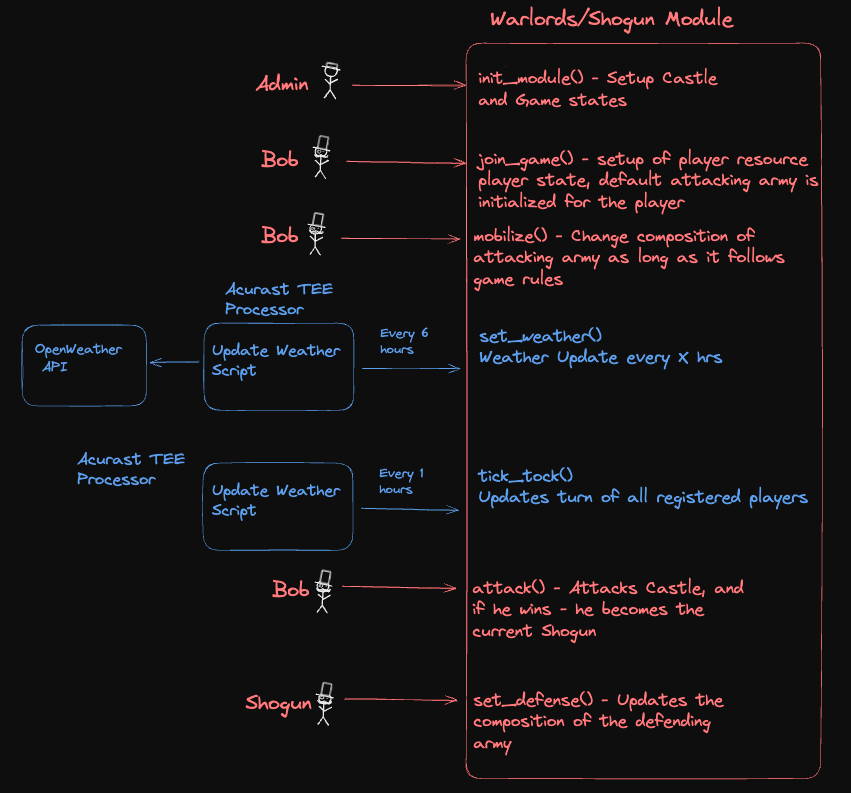
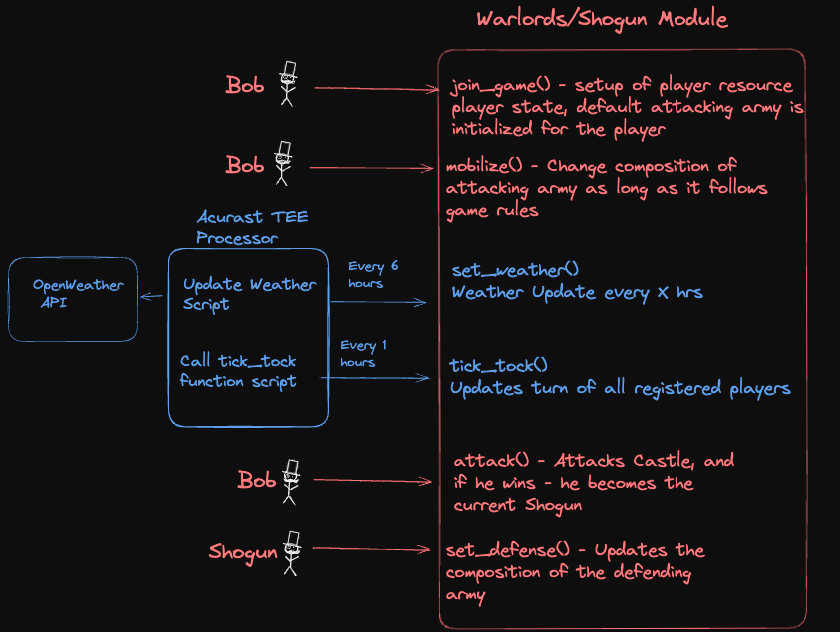
updated readme

diff --git a/README.md b/README.md
@@ -1,44 +1,17 @@
 ![alt text](images/cover.png)
 
-## Introduction  
+## Introduction
 
-Shogun is a fully on-chain game on Aptos L1 written in Move. The core innovation of this project is leveraging [Acurast](https://docs.acurast.com) to run Node.js scripts, making it an oracle for non-financial data, such as weather conditions. In our case, we retrieve weather data from the OpenWeather API with minimal trust assumptions that affects the in-game battle mechanics. Additionally, Acurast processors act as decentralized keepers by running scheduled cron jobs.
+Set in the Edo period of Japan, the goal of *Shogun* is to seize control of Edo Castle. Real-time weather conditions in Tokyo (historically Edo) directly impact gameplay and strategy. For example, rain hinders cavalry charges but strengthens infantry, while clear skies provide a bonus to cavalry, enhancing their effectiveness in battle.
 
-Set in the Edo period of Japan, the goal of the game is to gain control of Edo Castle. Real-time weather conditions in Tokyo(Edo) directly affect gameplay and strategy, e.g. rain stunts cavalry charges but empowers infantry, while clear skies provide an extra bonus to cavalry, enhancing their effectiveness in battle.
+*Shogun* is a fully on-chain game on the Aptos L1, built using Move. The core innovations of this project include:
 
-Here are the main actions a player can take:
+- **Leveraging Acurast**: We utilize [Acurast](https://docs.acurast.com) to run Node.js scripts, acting as an **oracle** for non-financial data, such as weather. Weather data is fetched from the OpenWeather API with minimal trust assumptions and influences the in-game battle mechanics. Tokyo's weather is updated every 6 hours.
 
-* Join the Game
-* Set Castle Defense (only the current Shogun, the lord of the castle edo, can do this)
-* Attack Castle Edo 
-* Mobilize Army (determine the composition of the attacking army)
+- **Decentralized Keepers**: Acurast processors serve as decentralized **keepers**, executing scheduled cron jobs. In our game, player statuses are updated every hour. This mechanism can be extended to support other decentralized, turn-based games on Aptos.
 
-The Scripts in Acurast Trusted Execution Environment (TEE) handles the following tasks:
+- **Aptos Randomness API**: We incorporate the [Aptos randomness API](https://aptos.dev/en/build/smart-contracts/randomness) to add an element of chance to battles. Combined with weather dependency, this randomness creates a more dynamic, realistic, and enjoyable battle strategy experience.
 
-* Update Weather Conditions (every 6 hours)
-* Set Player Turns (for all registered players, every hour)
-
-## Quick Start 
-
-- Download the project
-
-- cd into project's folder
-
-- Create .env file by example and fill required values (NEXT_PUBLIC_MODULE_ADDRESS is not required)
-
-- Run:
-
-```
-
-npm install
-
-npm run move:publish
-
-npm run dev
-
-```
-
-Boilerplate info: https://aptos.dev/en/build/create-aptos-dapp/templates/boilerplate
 
 ## Game Architecture
 
@@ -46,11 +19,31 @@ The following diagram shows all the public entry functions and the oracle/keeper
 
 ![alt text](images/architecture.png)
 
+The Diagram above shows the user actions, and the automated actions of Acurast processors (cron jobs):
+
+Main Actions a Player Can Take (public entry functions called by players) are as follow:
+
+- **Join the Game**: Upon joining the game, a player's default values are initialized in the game state. Players are provided with an army that has a default troop composition.
+  
+- **Mobilize Army**: After joining the game, players can modify the composition of their attacking army.
+
+- **Attack Castle Edo**: Players can challenge Edo Castle. If they succeed, they become the next Shogun.
+
+- **Set Castle Defense**: Only the current Shogun, the lord of Edo Castle, has the authority to change the troop composition of the defending army.
+
+The scripts running in Acurast’s TEE handle the following automated tasks (public entry functions called by cron jobs):
+
+- **Update Weather Conditions**: Fetches and updates the weather data every 6 hours.
+  
+- **Update Player State**: Updates player statuses every hour.
+
 ## Acurast Integration and trust assumptions
 
 Acurast is a decentralized and trustless compute execution layer, leveraging Trust Execution Environments opening up the capability to have Acurast’s Processors (off-chain workers) fetch, sign and submit data on-chain completely trustless and confidential. The processors are highly decentralized and uses processing power of old mobile phones. 
 
-For our proof of concept, deployed nodejs script on a Acurast processor fetches that weather data from [openweathermap api](https://openweathermap.org/current). Assuming that the data from Openweather API is correct, the data is forwarded to the game smart contract (move module) without additional trust overhead. It is signed by a preassigned weatherman, verifying that the incoming data comes from the acurast processor. 
+On Aptos, fetching non-price feed data can be difficult. However, we believe that Aptos smart contracts can receive Web2 API data through Acurast TEE processors with minimal trust assumptions. As a result, we decided to run scripts containing the [aptos-ts-sdk](https://github.com/aptos-labs/aptos-ts-sdk) inside Acurast processors.
+
+For our proof of concept, we deployed nodejs script on a Acurast processor fetches that weather data from [openweathermap api](https://openweathermap.org/current). Assuming that the data from Openweather API is correct, the data is forwarded to the game smart contract (move module) without additional trust overhead. It is signed by a preassigned weatherman, verifying that the incoming data comes from the acurast processor. 
 
 The acurast data sets the weather condition to one of the following options, based on the [weather condition codes of the api](https://openweathermap.org/weather-conditions)
 
@@ -64,41 +57,51 @@ The acurast data sets the weather condition to one of the following options, bas
 ```
 Each weather condition affects the effectiveness of the units, adding a layer of strategy to the game. 
 
-Moreover, we also use a second script to call `tick_tock()` function of the module to update player states every turn. This is a proof of concept use of Acurast processors as keepers. This function is not gated (anyone call this), however there is an internal check that only affects the game state if it is called after 1 hr has passed. In the future, we can offer a small bounty for bots to call this every hour -- turning it into a robust decentralized keeper.
+Moreover, we also use a second script to call `tick_tock()` function of the module to update player states every turn. This is a proof of concept use of Acurast processors as ** decentralized keepers**. This function is not gated (anyone call this), however there is an internal check that only affects the game state if it is called after 1 hr has passed.
 
 Note: You can find out more on Acurast's trust minimized processing [here](https://docs.acurast.com/acurast-protocol/architecture/end-to-end/)
 
+Acurast processor clusters are highly decentralized and permissionless, allowing anyone to join and contribute, making the network more resilient and distributed. The picture below showcases various processor clusters. The one on the left represents our cluster, where our proof-of-concept scripts are currently running. In production, we plan to deploy to a randomly selected processor within the Acurast ecosystem (ones that we do not own), with multiple redundancies to further minimize trust assumptions and enhance reliability.
+
+![alt text](images/acurast_cluster.png)
+
 ## Implementation details - Game rules
 
-When a player joins the game, they start with 10 turns and a default attacking army of 500 archers, 500 cavalry, and 500 infantry. Players can mobilize and change their army composition at any time for a cost of 3 turns, with a maximum total army size of 2,000 units.
+When a player joins the game, they start with 10 turns and a default attacking army consisting of 500 archers, 500 cavalry, and 500 infantry. Players can mobilize and modify their army composition at any time for a cost of 3 turns, with a maximum army size of 2,000 units.
 
-Players can attack Edo Castle (Tokyo) at the cost of 10 turns. The Acurast Keepers (cron jobs) ensure that players receive one turn every hour, with each turn representing one in-game day.
+Attacking Edo Castle (Tokyo) costs 10 turns. Acurast Keepers (cron jobs) ensure that players receive 1 turn every hour, with each turn representing one in-game day.
 
-If a player wins the battle, they become the next Shogun of Tokyo, gaining the ability to set the defense of the castle (an army of up to 1,600 units). A player cannot attack themselves, and each successful attack earns 1 point. These points determine a player's rank on the leaderboard. Once a player wins the castle, they cannot be attacked for 2 turns, giving the player a chance to set custom defense.
+If a player wins the battle, they become the next Shogun of Tokyo, gaining the ability to set the castle's defense with an army of up to 1,600 units. Players cannot attack themselves, and each successful attack earns 1 point, which contributes to their rank on the leaderboard.
 
-The game resets every 365 turns, which equates to one in-game year (approximately 15 real-life days). At the end of each game year, the player with the most points on the leaderboard wins. The next age ( game year) is named after the last age's winner. The first and current year is named - "Era of Satoshi Nakamoto".
+To maintain fairness, we use the Aptos Randomness API, which gives defenders a 60% chance of winning battles. Therefore, attackers must carefully consider weather conditions and their troop composition to increase their chances of success.
 
+The current Shogun can also continually adjust their defending army composition to strengthen their hold on the castle and prolong their reign.
 
-## Future Game Enhancements:
+## Future Game Enhancements
 
-Sky is the limit when it comes to addition of game features. However, the main things to be added before a production launch is as follows: 
+The possibilities for adding new features are endless, but the key enhancements we plan to implement before a full production launch include:
 
-* Making the turns scarce, so people can only attack once every 1-2 days, and adding the ability for players to "buy" turns. 
+- **Turn Scarcity and Purchasable Turns**: Players will only be able to attack once every 1-2 days, introducing scarcity to the game. Additionally, players will have the ability to "buy" extra turns.
 
-* Aptos collected from players buying the turns will be distributed between the current Shogun, and the treasury in a 70/30 split. This will incentivize attacking and defending a castle. 
+- **Incentivized Attacks and Defenses**: Aptos collected from players buying turns will be distributed between the current Shogun and the treasury in a 70/30 split. This system will incentivize both attacking the castle and defending the Shogun position. Players will be encouraged to attack and hold the position of Shogun (pay-to-hold), earning rewards in the process.
 
-* cACU and APT tokens are needed for Acurast Processors to run the oracles and keepers. The treasury money will be allocated for that.
+- **Funding Acurast Processors**: The cACU and APT tokens are required for Acurast Processors to run the oracles and keepers. A portion of the treasury funds will be allocated to cover these operational costs.
 
-* Multiple Castles can be added, each with unique weather associated to it's location. For someone to be Shogun, they will have to be holding majority of the castles, instead of just one.
+- **Multiple Castles with Unique Weather**: We plan to add multiple castles to the game, each with weather conditions tied to its specific location. To become the Shogun, a player must hold a majority of the castles, rather than just one, adding new layers of strategy.
 
-## Tools used
+We plan to apply for the Aptos developer grant to help launch this game into production.
 
-- NextJs
-- shadcn/ui + tailwind for styling
-- Aptos TS SDK
-- Aptos Wallet Adapter
-- Move Smart contracts 
-- Acurast TEE Oracles (Nodejs Scripts running in Acurat processors)
+## Quick Start (Localhost)
+- Download the project
+- cd into project's folder
+- Create .env file by example and fill required values (NEXT_PUBLIC_MODULE_ADDRESS is not required)
+- Run:
+```
+npm install
+npm run move:publish
+npm run dev
+```
+We used the [Aptos boilerplate](https://aptos.dev/en/build/create-aptos-dapp/templates/boilerplate) as the starting point for our project
 
 ## Available commands
 
@@ -109,32 +112,9 @@ Sky is the limit when it comes to addition of game features. However, the main t
 - `npm run move:upgrade` - a command to upgrade the Move contract
 - `npm run deploy` - a command to deploy the dapp to Vercel
 
+## Test Coverage 
 
-## Progress
+Our smart contract (Warlord Module) has comprehensive test coverage. We have implemented unit tests for all public entry functions, ensuring that key aspects of the game function as intended. To simulate different outcomes, we mock the randomness API to test various conditions where either the attacker or defender wins. Additionally, we mock weather conditions to thoroughly test how battles play out under different weather scenarios.
 
-### Smart Contract and Oracle 
+![alt text](images/test_coverage.png)
 
-| Feature | Started | Basic | Completed |
-| :--------- | :------ | :-----  | :----- |
-| Init | [x] | [x] | [] |
-| Join | [x] | [x] | [] |
-| Mobilize | [x] | [x] | [] |
-| Attack | [x] | [x] | [] |
-| Defend | [x] | [x] | [] |
-| Set Weather | [x] | [] | [] |
-| Tick | [x] | [] | [] |
-| Get Player State | [x] | [x] | [] |
-| Get Castle State | [x] | [x] | [] |
-| Get Tick State | [x] | [x] | [] |
-| Named Object For Storage | [] | [] | [] |
-| Simple Battle | [x] | [] | [] |
-| Randomness Battle | [x] | [] | [] |
-| Complicated Battle | [] | [] | [] |
-
-
-### Frontend 
-
-| Feature | Started | Basic | Completed |
-| :--------- | :------ | :-----  | :----- |
-| Landing Page | [x] | [] | [] |
-| Dashboard | [x] | [] | [] |
